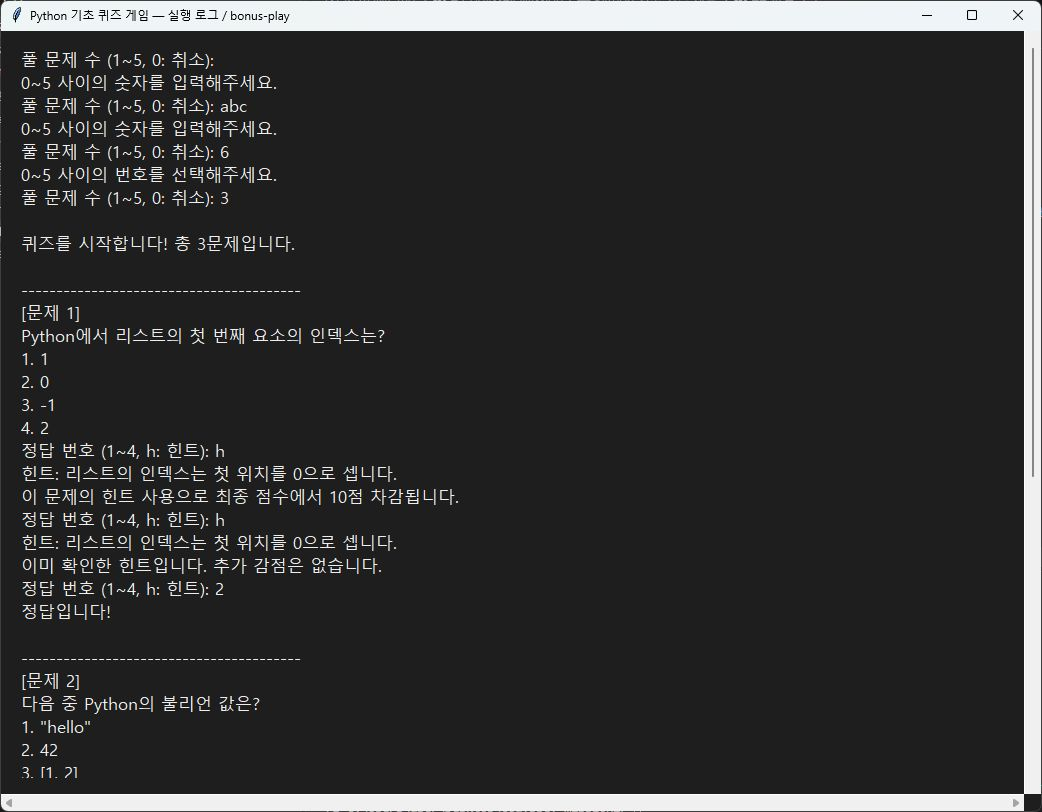
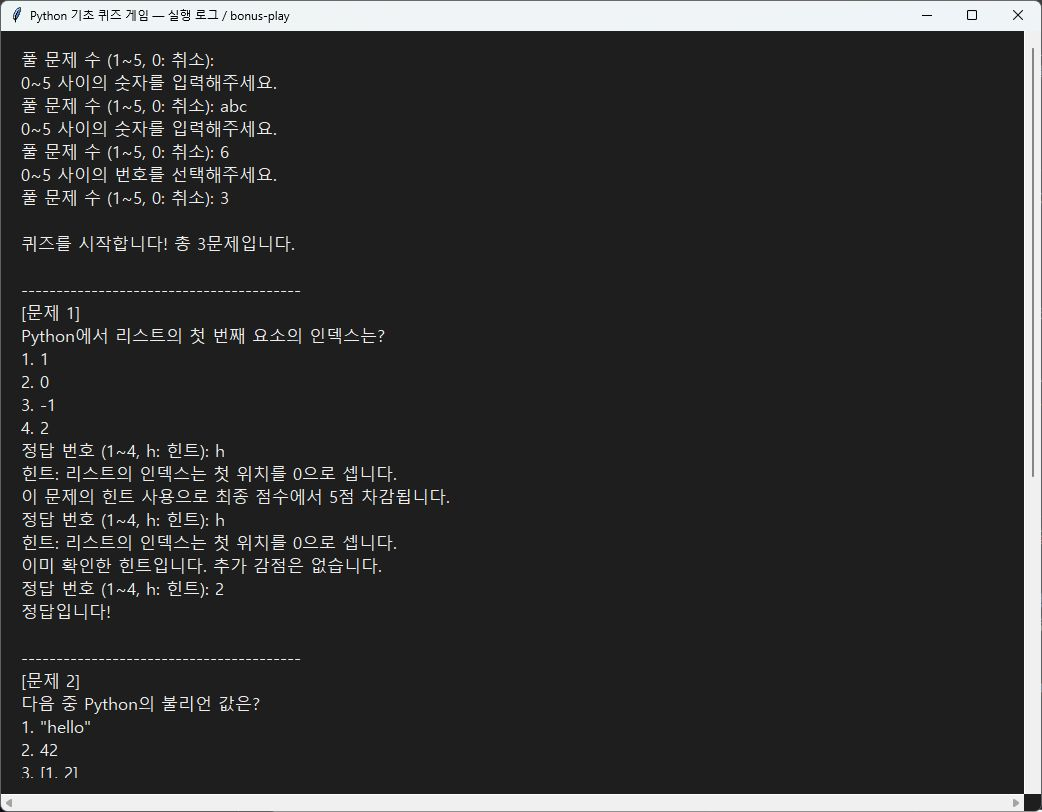
Fix: 힌트 감점을 5점으로 변경하고 기존 점수 기록 호환 유지

diff --git a/docs/verification/test_bonus.py b/docs/verification/test_bonus.py
@@ -131,7 +131,7 @@ class QuizTests(unittest.TestCase):
         q = self.mod.Quiz("Q", ["a", "b", "c", "d"], 1, "Hint")
         result, output = self.call(lambda: self.mod.read_quiz_answer(q), [" H ", "h", "1"])
         self.assertEqual(result, (1, True))
-        self.assertEqual(output.count("최종 점수에서 10점 차감"), 1)
+        self.assertEqual(output.count("최종 점수에서 5점 차감"), 1)
         self.assertIn("추가 감점은 없습니다", output)
 
     def test_missing_hint_is_free(self):
@@ -146,16 +146,16 @@ class QuizTests(unittest.TestCase):
         self.assertEqual(result, (2, False))
 
     def test_hint_scoring_and_zero_floor(self):
-        self.assertEqual(self.mod.calculate_score(2, 3, 1), 56.67)
+        self.assertEqual(self.mod.calculate_score(2, 3, 1), 61.67)
         self.assertEqual(self.mod.calculate_score(0, 1, 1), 0)
-        self.assertEqual(self.mod.calculate_score(1, 1, 1), 90)
+        self.assertEqual(self.mod.calculate_score(1, 1, 1), 95)
         self.assertEqual(self.mod.calculate_score(2, 3), 66.67)
 
     def test_play_counts_hinted_questions(self):
         quizzes = self.mod.create_default_quizzes()
         with patch.object(self.mod.random, "sample", return_value=quizzes[:2]):
             result, _ = self.call(lambda: self.mod.play_quizzes(quizzes), ["2", "h", "h", "2", "h", "3"])
-        self.assertEqual(result, dict(score=80, correct_count=2, total=2, hints_used=2))
+        self.assertEqual(result, dict(score=90, correct_count=2, total=2, hints_used=2, hint_penalty=5))
 
     def test_missing_file_and_exit_save(self):
         output = self.run_session(["4", "7", "5"])
@@ -200,7 +200,7 @@ class QuizTests(unittest.TestCase):
         self.reset()
         self.run_session(["1", "1", "h", "h", "2", "5"])
         game = self.game()
-        self.assertEqual(game.best_score["score"], 90)
+        self.assertEqual(game.best_score["score"], 95)
         self.assertEqual(game.history[0]["hints_used"], 1)
         self.assertIsNotNone(datetime.fromisoformat(game.history[0]["played_at"]).utcoffset())
 
@@ -357,7 +357,7 @@ class QuizTests(unittest.TestCase):
         record = self.saved()["history"][0]
         self.assertEqual(record["total"], 1)
         self.assertEqual(record["hints_used"], 1)
-        self.assertLessEqual(record["score"], 90)
+        self.assertLessEqual(record["score"], 95)
         again = subprocess.run(
             [sys.executable, "-X", "utf8", str(self.program)],
             input="7\n5\n", text=True, encoding="utf-8",
@@ -374,6 +374,19 @@ class QuizTests(unittest.TestCase):
         self.assertEqual(completed.returncode, 0, completed.stderr)
         self.assertIn("입력이 종료되어", completed.stdout)
         self.assertEqual(len(self.saved()["quizzes"]), 5)
+
+    def test_old_ten_point_records_and_new_five_point_records_coexist(self):
+        old = dict(score=90, correct_count=1, total=1, hints_used=1)
+        data = copy.deepcopy(self.defaults)
+        data["best_score"] = old.copy()
+        data["history"] = [{**old, "played_at": "2026-11-08T20:00:00+09:00"}]
+        self.reset(data)
+        self.run_session(["1", "1", "h", "2", "5"])
+        game = self.game()
+        self.assertEqual(game.best_score["score"], 95)
+        self.assertEqual(game.best_score["hint_penalty"], 5)
+        self.assertEqual([r["score"] for r in game.history], [90, 95])
+        self.assertEqual([r["hint_penalty"] for r in game.history], [10, 5])
 
 
 if __name__ == "__main__":

diff --git a/main.py b/main.py
@@ -3,11 +3,11 @@ import random
 from pathlib import Path
 from datetime import datetime
 
-HINT_PENALTY = 10
+HINT_PENALTY = 5
 
 
-def calculate_score(correct_count, total, hints_used=0):
-    return max(0, round(correct_count / total * 100 - hints_used * HINT_PENALTY, 2))
+def calculate_score(correct_count, total, hints_used=0, hint_penalty=HINT_PENALTY):
+    return max(0, round(correct_count / total * 100 - hints_used * hint_penalty, 2))
 
 
 class Quiz:
@@ -193,6 +193,7 @@ def play_quizzes(quizzes):
         "correct_count": correct_count,
         "total": total,
         "hints_used": hints_used,
+        "hint_penalty": HINT_PENALTY,
     }
 
 def read_non_empty_text(prompt):
@@ -323,6 +324,8 @@ class QuizGame:
         correct_count = record["correct_count"]
         total = record["total"]
         hints_used = record.get("hints_used", 0)
+        # Records written before the five-point rule used ten points per hint.
+        hint_penalty = record.get("hint_penalty", 10)
 
         if type(total) is not int or total < 1:
             raise ValueError("전체 문제 수가 올바르지 않습니다.")
@@ -332,10 +335,13 @@ class QuizGame:
             raise ValueError("점수가 올바르지 않습니다.")
         if type(hints_used) is not int or not 0 <= hints_used <= total:
             raise ValueError("힌트 사용 횟수가 올바르지 않습니다.")
-        if score != calculate_score(correct_count, total, hints_used):
+        if type(hint_penalty) is not int or hint_penalty not in (5, 10):
+            raise ValueError("힌트 감점 기준이 올바르지 않습니다.")
+        if score != calculate_score(correct_count, total, hints_used, hint_penalty):
             raise ValueError("점수와 정답 수가 일치하지 않습니다.")
 
-        parsed = dict(score=score, correct_count=correct_count, total=total, hints_used=hints_used)
+        parsed = dict(score=score, correct_count=correct_count, total=total,
+                      hints_used=hints_used, hint_penalty=hint_penalty)
         if require_date:
             played_at = record["played_at"]
             if not isinstance(played_at, str):

diff --git a/README.md b/README.md
@@ -336,10 +336,11 @@ Codyssey_mission2/
 | `answer` | 1~4의 정수 정답 번호 |
 | `best_score` | 미플레이는 `null`, 완료 기록은 아래 객체 |
 | `hint` | 선택적 힌트 문자열. 빈 문자열이면 힌트 없음 |
-| `score` | 정답 비율 × 100 - 힌트 사용 문제 수 × 10, 최소 0점, 소수점 둘째 자리 반올림 |
+| `score` | 정답 비율 × 100 - 힌트 사용 문제 수 × 해당 기록의 hint_penalty (현재 5), 최소 0점, 소수점 둘째 자리 반올림 |
 | `correct_count` | 최고 기록의 정답 수 |
 | `total` | 최고 기록의 전체 문제 수 |
 | `hints_used` | 해당 게임에서 힌트를 사용한 문제 수 |
+| `hint_penalty` | 해당 기록의 힌트 1회 감점. 현재 5점, 이전 기록은 10점 |
 | `history` | 완료한 모든 게임 기록의 목록 |
 | `played_at` | 히스토리의 실행 컴퓨터 현지 시각. 시간대가 포함된 ISO 8601 문자열 |
 
@@ -355,9 +356,9 @@ Codyssey_mission2/
       "hint": "string의 약자입니다."
     }
   ],
-  "best_score": {"score": 90.0, "correct_count": 1, "total": 1, "hints_used": 1},
+  "best_score": {"score": 95.0, "correct_count": 1, "total": 1, "hints_used": 1, "hint_penalty": 5},
   "history": [
-    {"score": 90.0, "correct_count": 1, "total": 1, "hints_used": 1, "played_at": "2026-11-08T20:00:00+09:00"}
+    {"score": 95.0, "correct_count": 1, "total": 1, "hints_used": 1, "hint_penalty": 5, "played_at": "2026-11-08T20:00:00+09:00"}
   ]
 }
 ```
@@ -378,11 +379,11 @@ Codyssey_mission2/
 
 ### B2. 힌트와 감점
 
-**구현:** `Quiz.hint`를 추가하고 등록 시 Enter로 생략할 수 있게 했다. 풀이 중 `h` 또는 `H`로 조회한다. 힌트를 사용한 문제마다 최종 점수에서 10점을 차감하고 0점 미만으로 내려가지 않는다. 같은 문제에서 반복 조회해도 한 번만 차감하며, 힌트가 없는 문제는 차감하지 않는다. 기능 커밋: [`14d89ae`](https://github.com/20222002-ch/Codyssey_mission2/commit/14d89ae).
+**구현:** `Quiz.hint`를 추가하고 등록 시 Enter로 생략할 수 있게 했다. 풀이 중 `h` 또는 `H`로 조회한다. 힌트를 사용한 문제마다 최종 점수에서 5점을 차감하고 0점 미만으로 내려가지 않는다. 같은 문제에서 반복 조회해도 한 번만 차감하며, 힌트가 없는 문제는 차감하지 않는다. 기능 커밋: [`14d89ae`](https://github.com/20222002-ch/Codyssey_mission2/commit/14d89ae).
 
-**고려와 해결:** 기존 최고 기록 검증은 정답 비율만 계산했기 때문에 감점된 기록을 손상 데이터로 처리할 수 있었다. 저장·불러오기와 점수 계산이 같은 `calculate_score()`를 사용하도록 바꾸고 `hints_used`를 함께 저장했다. 예전 기록은 힌트 0회로 해석한다.
+**고려와 해결:** 기존 최고 기록 검증은 정답 비율만 계산했기 때문에 감점된 기록을 손상 데이터로 처리할 수 있었다. 저장·불러오기와 점수 계산이 같은 `calculate_score()`를 사용하도록 바꾸고 `hints_used`를 함께 저장했다. 힌트 횟수가 없는 예전 기록은 0회로 해석한다. 이후 사용자 요청으로 감점을 10점에서 5점으로 줄였다. 새 기록은 `hint_penalty: 5`를 저장하고, 감점 필드가 없는 기존 보너스 기록은 10점 기준으로 읽어 원래 점수와 날짜를 보존한다. 과거 기록을 소급해서 다시 계산하지 않는다.
 
-**확인:** 3문제 전부 정답에 힌트 1회면 90점, 같은 힌트를 두 번 확인해도 90점이다. 오답과 힌트 감점이 겹쳐도 최소 0점이다. 아래 화면은 문제 수 입력 검증과 첫 문제의 반복 힌트 확인 부분이다. 스크롤하면 최종 90점 결과까지 볼 수 있다.
+**확인:** 3문제 전부 정답에 힌트 1회면 95점, 같은 힌트를 두 번 확인해도 95점이다. 오답과 힌트 감점이 겹쳐도 최소 0점이다. 아래 화면은 문제 수 입력 검증과 첫 문제의 반복 힌트 확인 부분이다. 스크롤하면 최종 95점 결과까지 볼 수 있다.
 
 ```powershell
 py docs/verification/view_log.py docs/verification/bonus-play.txt
@@ -423,7 +424,7 @@ py docs/verification/view_log.py docs/verification/bonus-reload.txt
 
 ### B5. 회귀 검증과 재현
 
-[`test_bonus.py`](docs/verification/test_bonus.py)의 **40개 테스트가 통과**했다. `results.json`에는 40개 테스트 결과와 원본 데이터 보존 확인 1개를 별도로 기록한다. 테스트 안의 여러 입력 조합은 subtest로 확인한다.
+[`test_bonus.py`](docs/verification/test_bonus.py)의 **41개 테스트가 통과**했다. `results.json`에는 41개 테스트 결과와 원본 데이터 보존 확인 1개를 별도로 기록한다. 테스트 안의 여러 입력 조합은 subtest로 확인한다.
 
 - 랜덤 표본 크기·중복·순서와 원본 목록 보존
 - 문제 수 취소·잘못된 입력, 힌트 반복·없음·감점 하한
